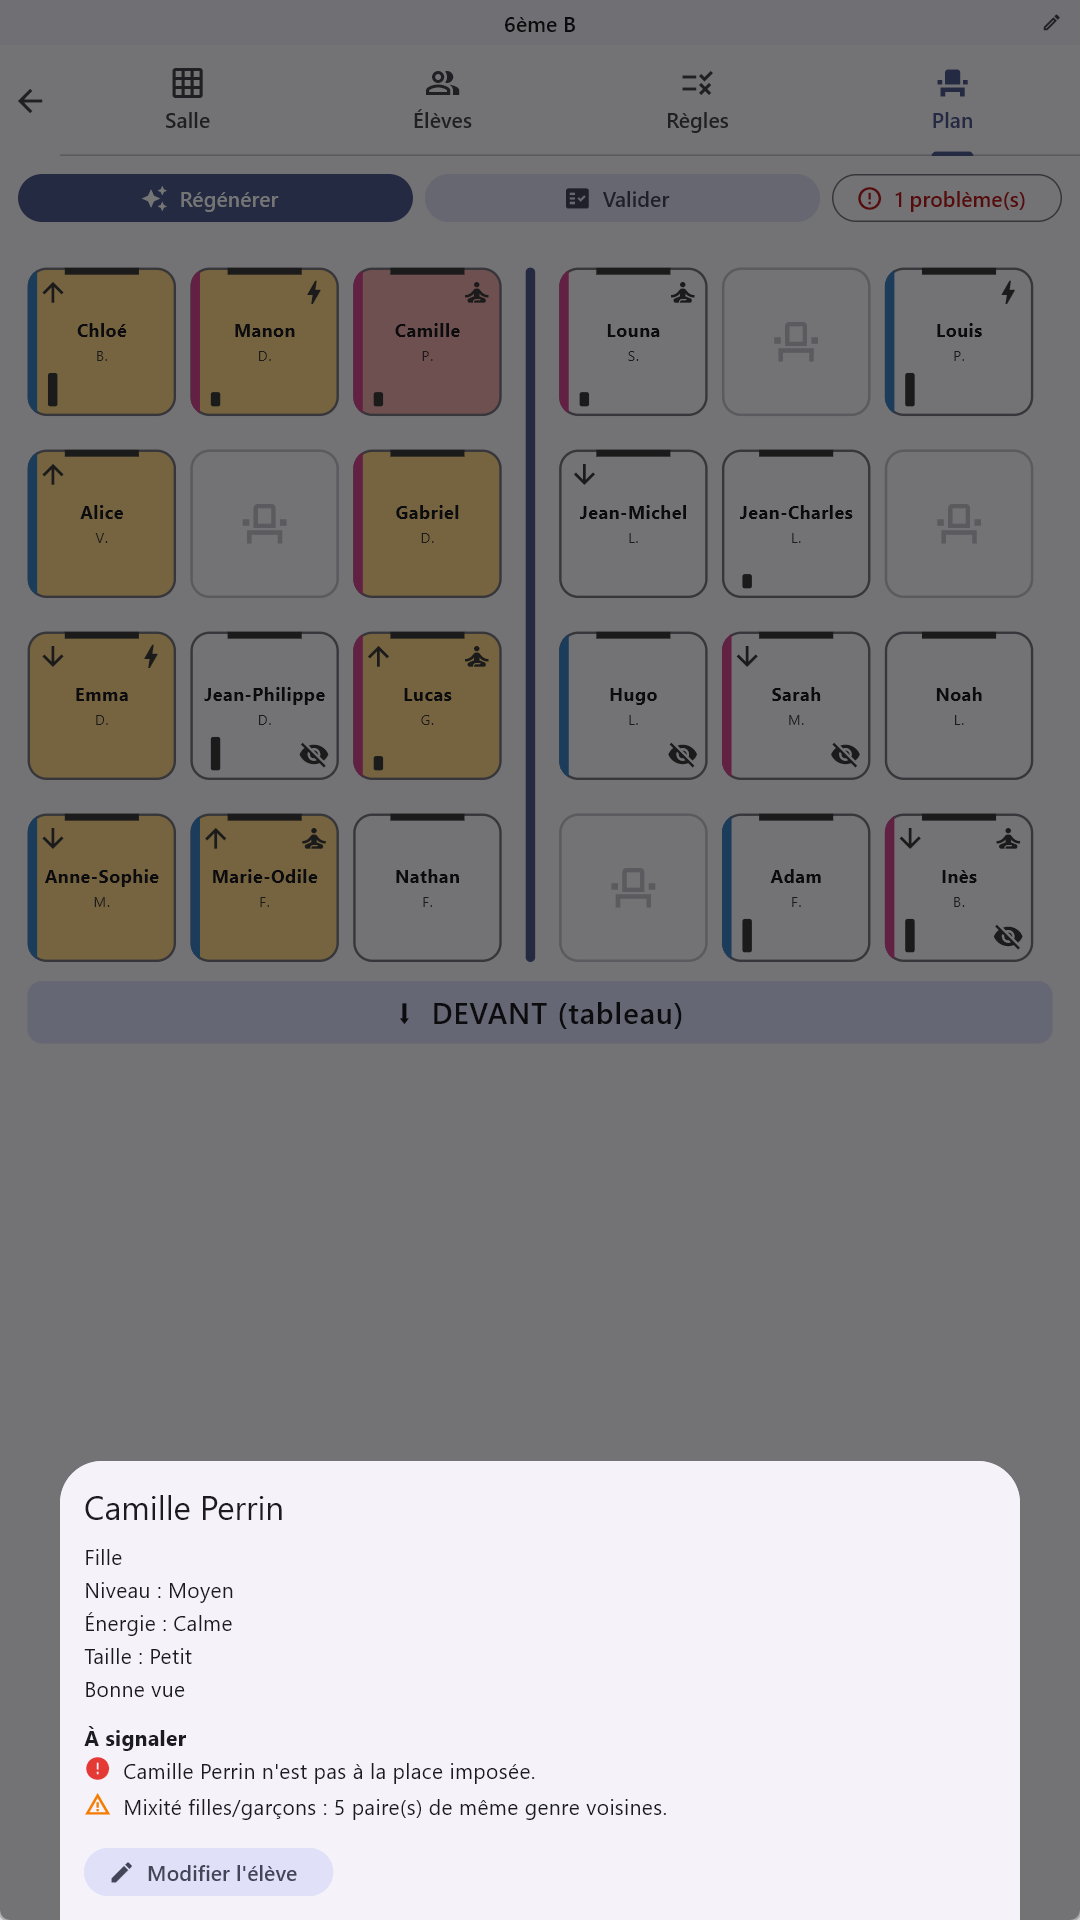
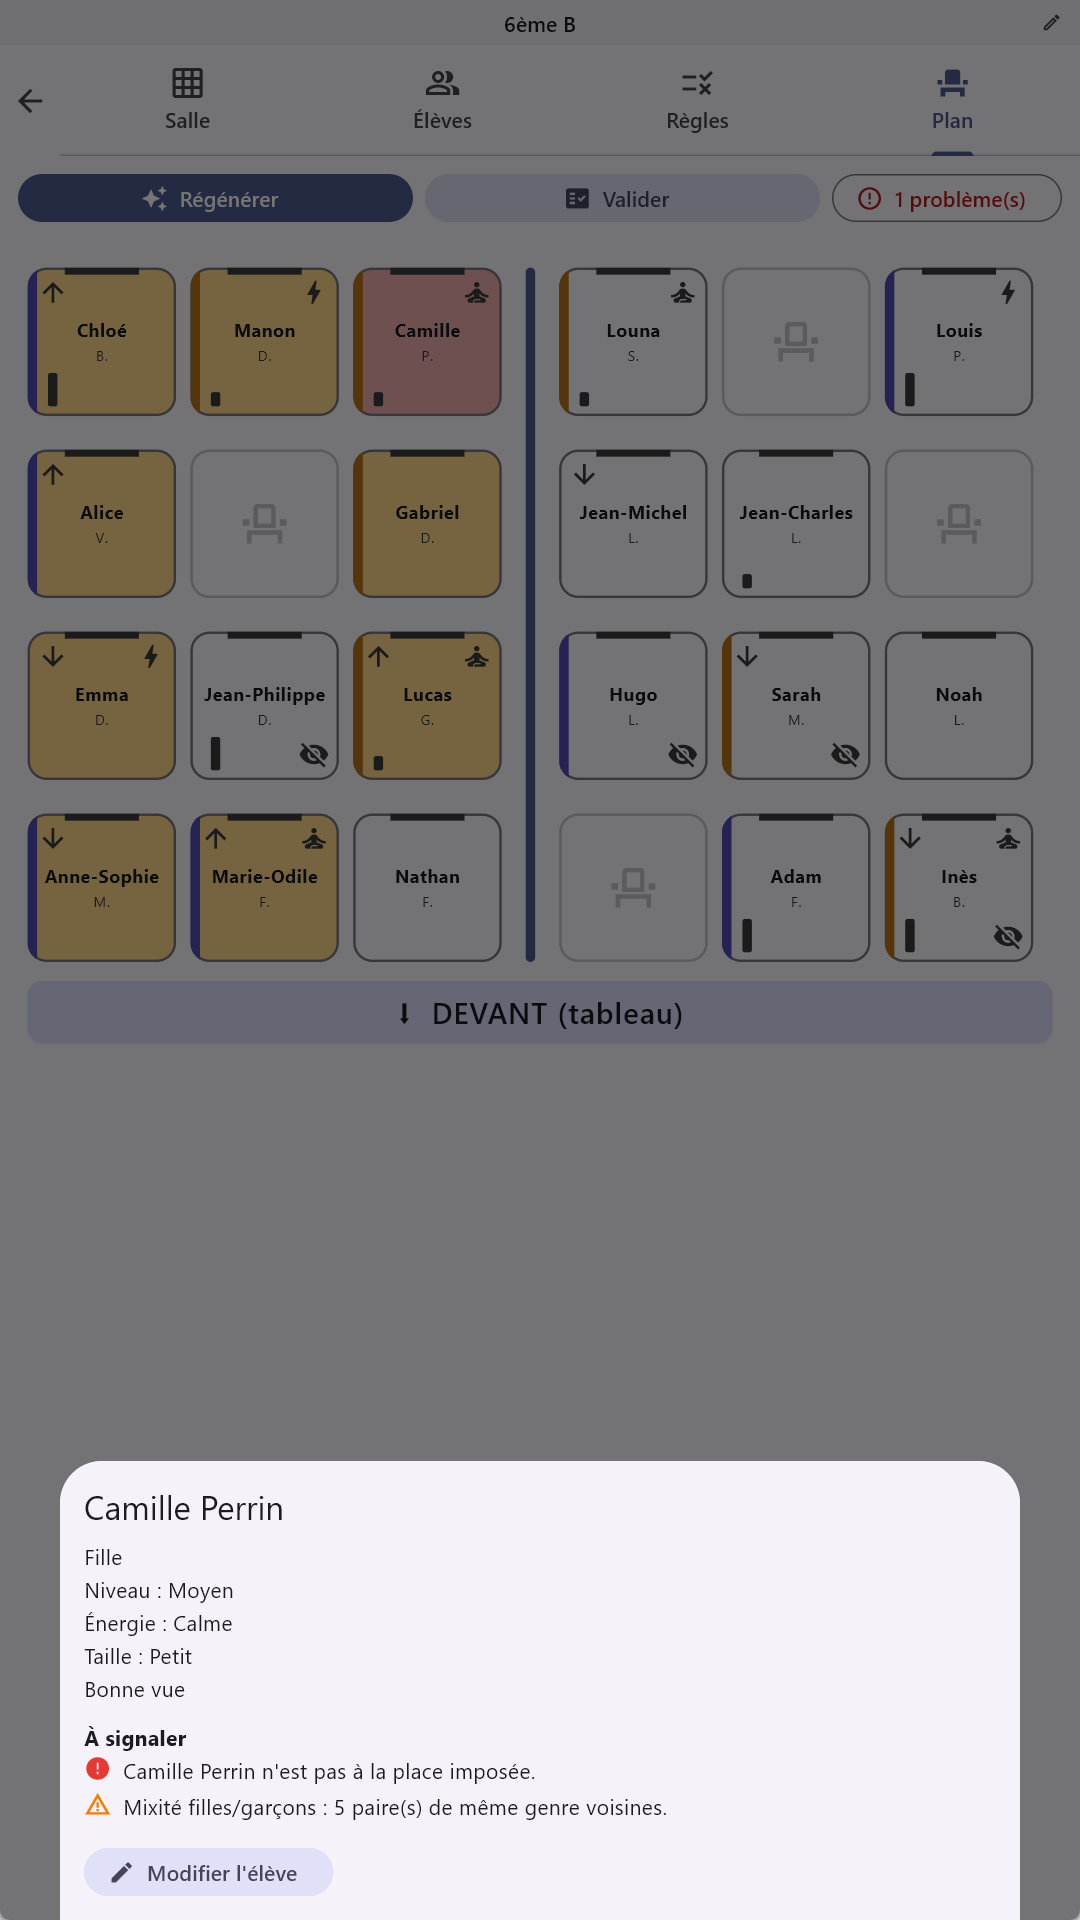
Prépare la version 1.11.0
Passe pubspec.yaml en 1.11.0+13 et ajoute les notes de version Play
(changelogs/13.txt, 379 caractères sur 500) : couleurs garçon/fille
personnalisables, disposition proposée dès la création d'une classe,
réutilisation d'une salle enregistrée, fermeture du U par le fond,
corrections diverses.

Refait 4 des 8 captures Play, périmées par des changements de cette
série : 05-regles (texte des objectifs grand/petit et agité corrigé par
d18780f, issue #30) et 06-plan/07-plan-detail/08-plan-paysage (liseré de
genre passé du bleu/rose d'origine au nouveau défaut vert canard/corail,
issue #27). Les 4 autres (accueil, salle, élèves) sont inchangées.

Documente la palette de genre configurable dans le README racine
(jamais mentionnée avant #27, y compris l'ancien bleu/rose fixe) et
corrige au passage le nombre de captures Play cité dans
test/fixtures/README.md (6 au lieu des 8 réelles depuis le 2026-08-20,
péremption sans rapport avec cette série).

Complète full_description.txt (fiche Play), resté sans mise à jour
depuis la 1.9.0 : enregistrement/réutilisation de salle et disposition
proposée à la création (#28, jamais documentées), et palette de genre
personnalisable (#27). 3694/4000 caractères.

diff --git a/README.md b/README.md
@@ -61,7 +61,9 @@ sur Internet — adapté aux données élèves).
   dure, orange pâle pour un objectif souple non atteint) ; un **tap** sur
   n'importe quelle place ouvre une feuille de détail (nom complet, tous les
   attributs en clair, motifs du problème s'il y en a) avec un accès direct au
-  formulaire d'édition.
+  formulaire d'édition. Le genre est indiqué par un liseré coloré sur le bord
+  gauche de la carte (muet pour « non précisé ») ; sa palette (5 au choix) se
+  règle dans l'écran **Réglages**.
 - **Classe de démo** : bouton (accueil, écran vide ou icône dans l'AppBar)
   pour ajouter en un clic une classe fictive « 6ème B » déjà remplie (20
   élèves, salle, règles, plan) — pratique pour découvrir l'appli sans tout

diff --git a/store/play/README.md b/store/play/README.md
@@ -30,6 +30,12 @@ toutes ses règles. L'onglet Élèves a deux captures, une par vue : Compacte
 (colonne par attribut, tap pour cycler) et Complète (colonne par valeur,
 cases à cocher).
 
+**Refaites partiellement pour la 1.11.0** (4 des 8, les autres inchangées) :
+`05-regles` (texte corrigé des objectifs grand/petit et agité, issue #30) et
+`06-plan`/`07-plan-detail`/`08-plan-paysage` (liseré de genre : nouveau défaut
+vert canard/corail au lieu du bleu/rose d'origine, issue #27 — palette
+réglable en Réglages, voir le sélecteur ajouté à cette version).
+
 ### Contraintes de dimensions (⚠ vérifié le 2026-08-25)
 
 Les captures servent **deux** slots de la Play Console, téléphone et

diff --git a/test/fixtures/README.md b/test/fixtures/README.md
@@ -13,7 +13,7 @@ d'affectation avec un jeu de données réaliste et non dégénéré.
 
 ## `demo_class_6emeb.json`
 
-La classe de démo « 6ème B » (20 élèves) utilisée pour les 6 captures Play
+La classe de démo « 6ème B » (20 élèves) utilisée pour les 8 captures Play
 Store dans `store/play/screenshots/` : mêmes critères tirés indépendamment
 (genre en tiers égaux), plus 4 règles couvrant les 4 types (place imposée,
 doit être devant, séparer, rapprocher) et un plan déjà généré qui les
